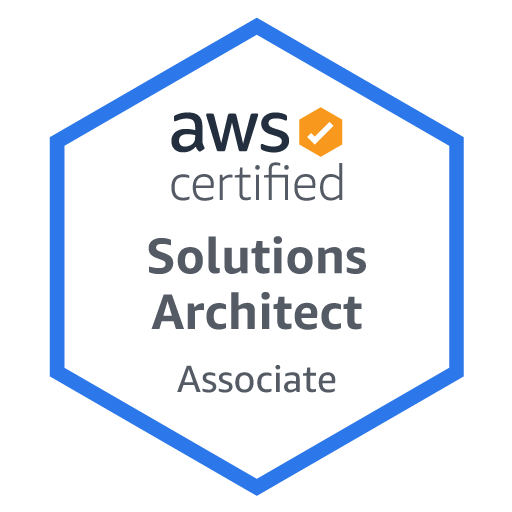
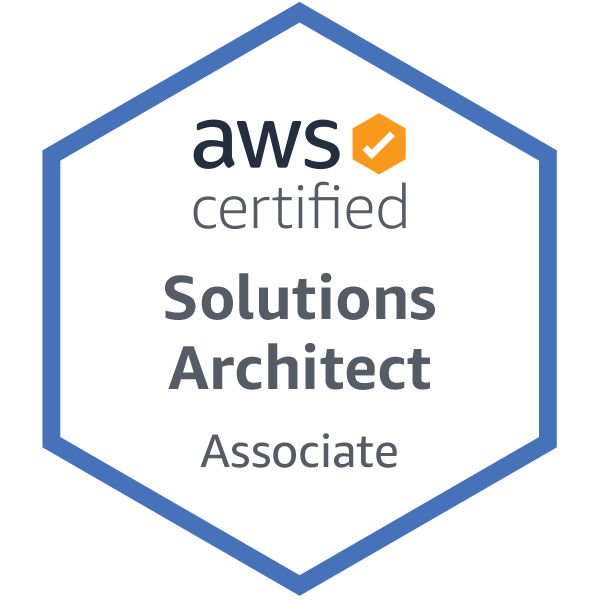
update aws badge

diff --git a/index.html b/index.html
@@ -53,18 +53,18 @@
 
             <div class="home-socials">
                 <div class="home-social">
-                    <a rel="noreferrer" href="https://linkedin.com/in/vinicius-marson" class="home-social-icon-link">
+                    <a rel="noreferrer" href="https://linkedin.com/in/vinicius-marson" class="home-social-icon-link" target="_blank">
                         <img src="./assets/images/linkedin-dark.webp" alt="Vinicius Marson Linkedin Profile"
                             class="home-social-icon">
                     </a>
                 </div>
                 <div class="home-social">
-                    <a rel="noreferrer" href="https://github.com/viniciusmarson" class="home-social-icon-link">
+                    <a rel="noreferrer" href="https://github.com/viniciusmarson" class="home-social-icon-link" target="_blank">
                         <img src="./assets/images/github-dark.webp" alt="Github Profile" class="home-social-icon">
                     </a>
                 </div>
                 <div class="home-social">
-                    <a rel="noreferrer" href="https://viniciusmarson.medium.com/" class="home-social-icon-link">
+                    <a rel="noreferrer" href="https://viniciusmarson.medium.com/" class="home-social-icon-link" target="_blank">
                         <img src="./assets/images/book-dark.webp" alt="Articles" class="home-social-icon">
                     </a>
                 </div>
@@ -202,8 +202,10 @@
                         <div class="skills">
                             <div class="skills__skill">React</div>
                             <div class="skills__skill">React Native</div>
-                            <div class="skills__skill">Node JS</div>
+                            <div class="skills__skill">Next</div>
+                            <div class="skills__skill">Node</div>
                             <div class="skills__skill">MongoDB</div>
+                            <div class="skills__skill">PostgreSQL</div>
                             <div class="skills__skill">Typescript</div>
                             <div class="skills__skill">Cypress</div>
                             <div class="skills__skill">Jest</div>
@@ -212,7 +214,6 @@
                             <div class="skills__skill">Terraform</div>
                             <div class="skills__skill">DevOps</div>
                             <div class="skills__skill">Scrum</div>
-                            <div class="skills__skill">Scrum Nexus</div>
                         </div>
 
                         <div class="certifications">
